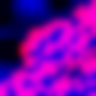
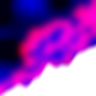
Continue the canopy across the western woodland
Reuse the full-canopy mask for four native forest-interior slots. Join the two neighboring forms into the same canopy at the western slope, where the previous masks created an abrupt edge. Record three naturally reached encounter windows.

Changed region(s): [[0.0, 0.4375, 1.0, 1.0]]

diff --git a/docs/ART-WORKLIST.md b/docs/ART-WORKLIST.md
@@ -190,7 +190,7 @@ Areas not confirmed, and why:
 
 ### Local overland encounter terrain (#193)
 
-34 / 248 native world-map slots have a 96×96 material mask. 214 slots lack a mask.
+38 / 248 native world-map slots have a 96×96 material mask. 210 slots lack a mask.
 The Enhanced overland encounter view uses one set of painted materials with the native slots and world position. Normal travel uses the regional atlas.
 The table counts slots in the native map data. Paired replays establish which local 5×5 compositions appear during encounters.
 The shared 1024×2048 material atlas is installed.
@@ -204,17 +204,17 @@ Missing slot keys
 `overland-tile:71`, `overland-tile:72`, `overland-tile:73`, `overland-tile:74`, `overland-tile:75`, `overland-tile:76`, `overland-tile:77`, `overland-tile:78`, `overland-tile:79`, `overland-tile:80`, `overland-tile:81`, `overland-tile:82`
 `overland-tile:83`, `overland-tile:84`, `overland-tile:85`, `overland-tile:86`, `overland-tile:87`, `overland-tile:88`, `overland-tile:89`, `overland-tile:90`, `overland-tile:91`, `overland-tile:92`, `overland-tile:93`, `overland-tile:94`
 `overland-tile:95`, `overland-tile:96`, `overland-tile:98`, `overland-tile:100`, `overland-tile:101`, `overland-tile:102`, `overland-tile:103`, `overland-tile:104`, `overland-tile:105`, `overland-tile:106`, `overland-tile:107`, `overland-tile:108`
-`overland-tile:109`, `overland-tile:110`, `overland-tile:111`, `overland-tile:112`, `overland-tile:113`, `overland-tile:114`, `overland-tile:115`, `overland-tile:116`, `overland-tile:117`, `overland-tile:118`, `overland-tile:120`, `overland-tile:121`
-`overland-tile:123`, `overland-tile:124`, `overland-tile:125`, `overland-tile:126`, `overland-tile:127`, `overland-tile:128`, `overland-tile:129`, `overland-tile:130`, `overland-tile:131`, `overland-tile:132`, `overland-tile:133`, `overland-tile:134`
-`overland-tile:135`, `overland-tile:136`, `overland-tile:137`, `overland-tile:139`, `overland-tile:140`, `overland-tile:141`, `overland-tile:142`, `overland-tile:143`, `overland-tile:146`, `overland-tile:150`, `overland-tile:151`, `overland-tile:152`
-`overland-tile:153`, `overland-tile:156`, `overland-tile:157`, `overland-tile:158`, `overland-tile:159`, `overland-tile:160`, `overland-tile:161`, `overland-tile:162`, `overland-tile:163`, `overland-tile:165`, `overland-tile:166`, `overland-tile:167`
-`overland-tile:168`, `overland-tile:169`, `overland-tile:170`, `overland-tile:171`, `overland-tile:172`, `overland-tile:173`, `overland-tile:174`, `overland-tile:175`, `overland-tile:176`, `overland-tile:177`, `overland-tile:178`, `overland-tile:179`
-`overland-tile:180`, `overland-tile:181`, `overland-tile:182`, `overland-tile:183`, `overland-tile:184`, `overland-tile:185`, `overland-tile:186`, `overland-tile:187`, `overland-tile:188`, `overland-tile:189`, `overland-tile:190`, `overland-tile:191`
-`overland-tile:193`, `overland-tile:194`, `overland-tile:195`, `overland-tile:196`, `overland-tile:197`, `overland-tile:198`, `overland-tile:199`, `overland-tile:200`, `overland-tile:201`, `overland-tile:202`, `overland-tile:203`, `overland-tile:204`
-`overland-tile:205`, `overland-tile:206`, `overland-tile:207`, `overland-tile:208`, `overland-tile:209`, `overland-tile:210`, `overland-tile:211`, `overland-tile:212`, `overland-tile:213`, `overland-tile:214`, `overland-tile:216`, `overland-tile:217`
-`overland-tile:218`, `overland-tile:219`, `overland-tile:220`, `overland-tile:221`, `overland-tile:222`, `overland-tile:223`, `overland-tile:224`, `overland-tile:225`, `overland-tile:226`, `overland-tile:227`, `overland-tile:228`, `overland-tile:229`
-`overland-tile:230`, `overland-tile:231`, `overland-tile:232`, `overland-tile:233`, `overland-tile:234`, `overland-tile:235`, `overland-tile:236`, `overland-tile:237`, `overland-tile:238`, `overland-tile:240`, `overland-tile:241`, `overland-tile:242`
-`overland-tile:243`, `overland-tile:244`, `overland-tile:245`, `overland-tile:248`, `overland-tile:249`, `overland-tile:250`, `overland-tile:251`, `overland-tile:252`, `overland-tile:253`, `overland-tile:254`
+`overland-tile:109`, `overland-tile:110`, `overland-tile:111`, `overland-tile:112`, `overland-tile:113`, `overland-tile:114`, `overland-tile:115`, `overland-tile:116`, `overland-tile:117`, `overland-tile:118`, `overland-tile:124`, `overland-tile:125`
+`overland-tile:126`, `overland-tile:127`, `overland-tile:128`, `overland-tile:129`, `overland-tile:130`, `overland-tile:131`, `overland-tile:132`, `overland-tile:133`, `overland-tile:134`, `overland-tile:135`, `overland-tile:136`, `overland-tile:137`
+`overland-tile:139`, `overland-tile:140`, `overland-tile:141`, `overland-tile:142`, `overland-tile:143`, `overland-tile:150`, `overland-tile:151`, `overland-tile:152`, `overland-tile:153`, `overland-tile:156`, `overland-tile:157`, `overland-tile:158`
+`overland-tile:159`, `overland-tile:160`, `overland-tile:161`, `overland-tile:162`, `overland-tile:163`, `overland-tile:165`, `overland-tile:166`, `overland-tile:167`, `overland-tile:168`, `overland-tile:169`, `overland-tile:170`, `overland-tile:171`
+`overland-tile:172`, `overland-tile:173`, `overland-tile:174`, `overland-tile:175`, `overland-tile:176`, `overland-tile:177`, `overland-tile:178`, `overland-tile:179`, `overland-tile:180`, `overland-tile:181`, `overland-tile:182`, `overland-tile:183`
+`overland-tile:184`, `overland-tile:185`, `overland-tile:186`, `overland-tile:187`, `overland-tile:188`, `overland-tile:189`, `overland-tile:190`, `overland-tile:191`, `overland-tile:193`, `overland-tile:194`, `overland-tile:195`, `overland-tile:196`
+`overland-tile:197`, `overland-tile:198`, `overland-tile:199`, `overland-tile:200`, `overland-tile:201`, `overland-tile:202`, `overland-tile:203`, `overland-tile:204`, `overland-tile:205`, `overland-tile:206`, `overland-tile:207`, `overland-tile:208`
+`overland-tile:209`, `overland-tile:210`, `overland-tile:211`, `overland-tile:212`, `overland-tile:213`, `overland-tile:214`, `overland-tile:216`, `overland-tile:217`, `overland-tile:218`, `overland-tile:219`, `overland-tile:220`, `overland-tile:221`
+`overland-tile:222`, `overland-tile:223`, `overland-tile:224`, `overland-tile:225`, `overland-tile:226`, `overland-tile:227`, `overland-tile:228`, `overland-tile:229`, `overland-tile:230`, `overland-tile:231`, `overland-tile:232`, `overland-tile:233`
+`overland-tile:234`, `overland-tile:235`, `overland-tile:236`, `overland-tile:237`, `overland-tile:238`, `overland-tile:240`, `overland-tile:241`, `overland-tile:242`, `overland-tile:243`, `overland-tile:244`, `overland-tile:245`, `overland-tile:248`
+`overland-tile:249`, `overland-tile:250`, `overland-tile:251`, `overland-tile:252`, `overland-tile:253`, `overland-tile:254`
 
 ### Other pictures no key names
 
